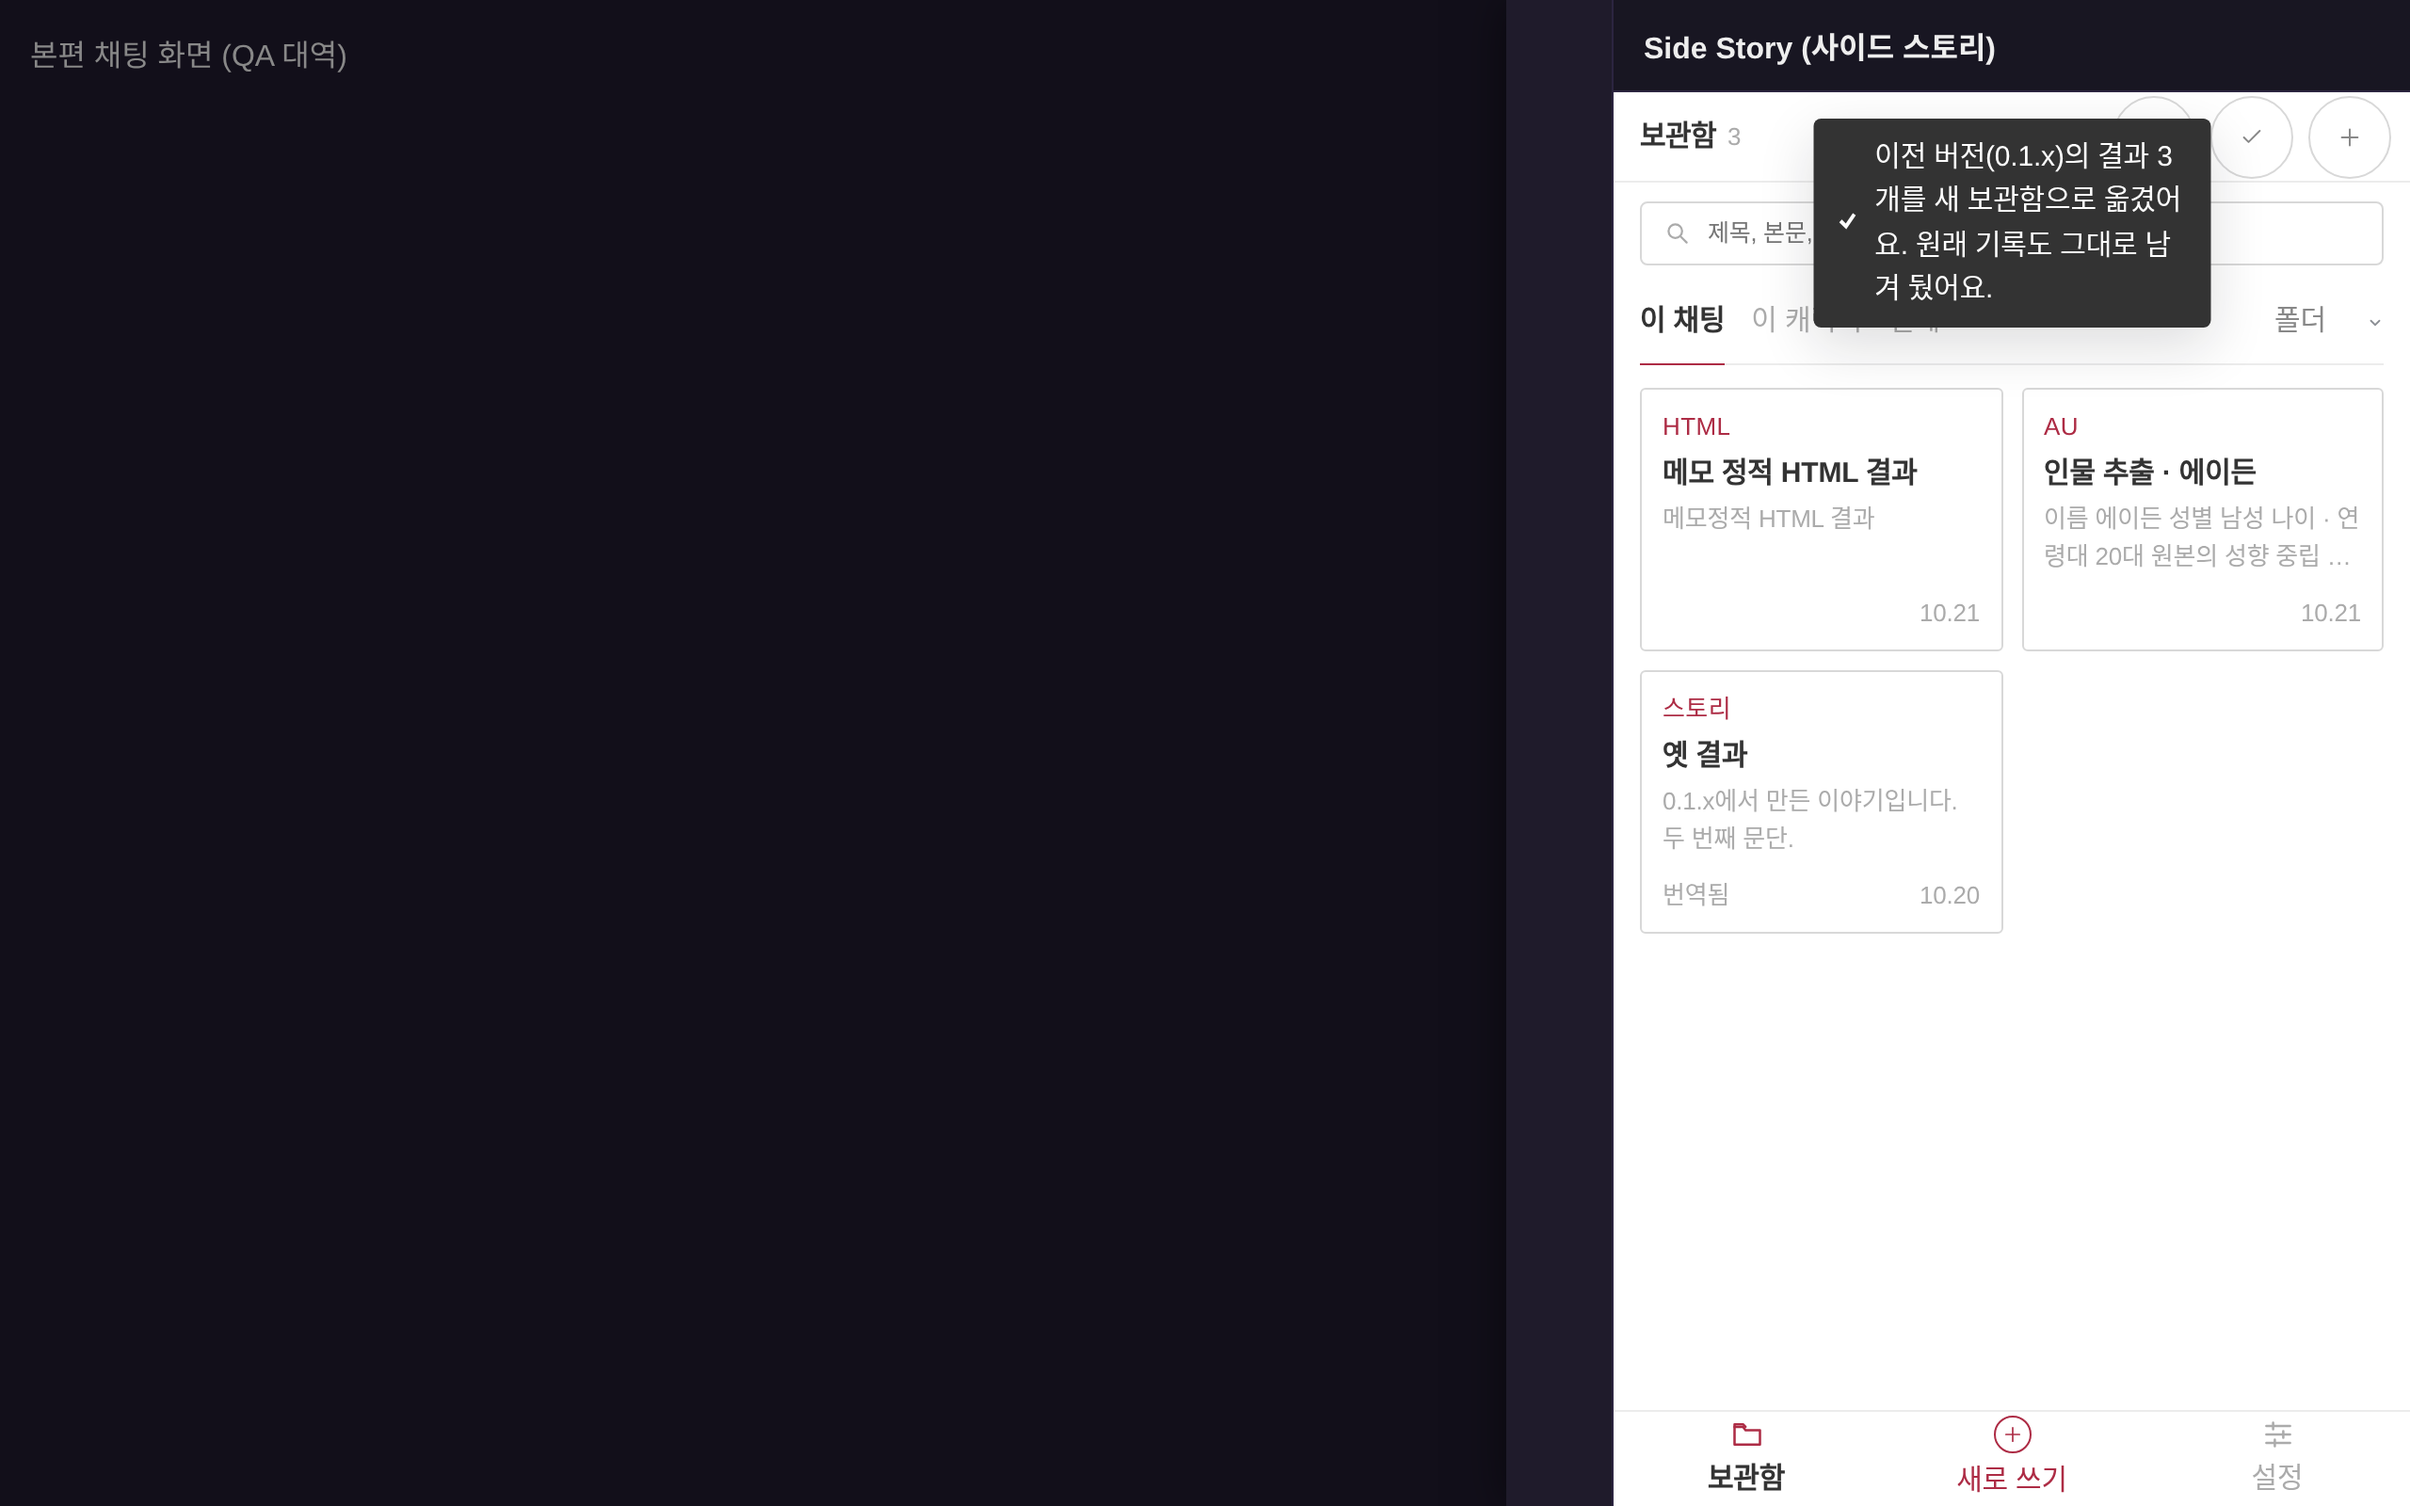
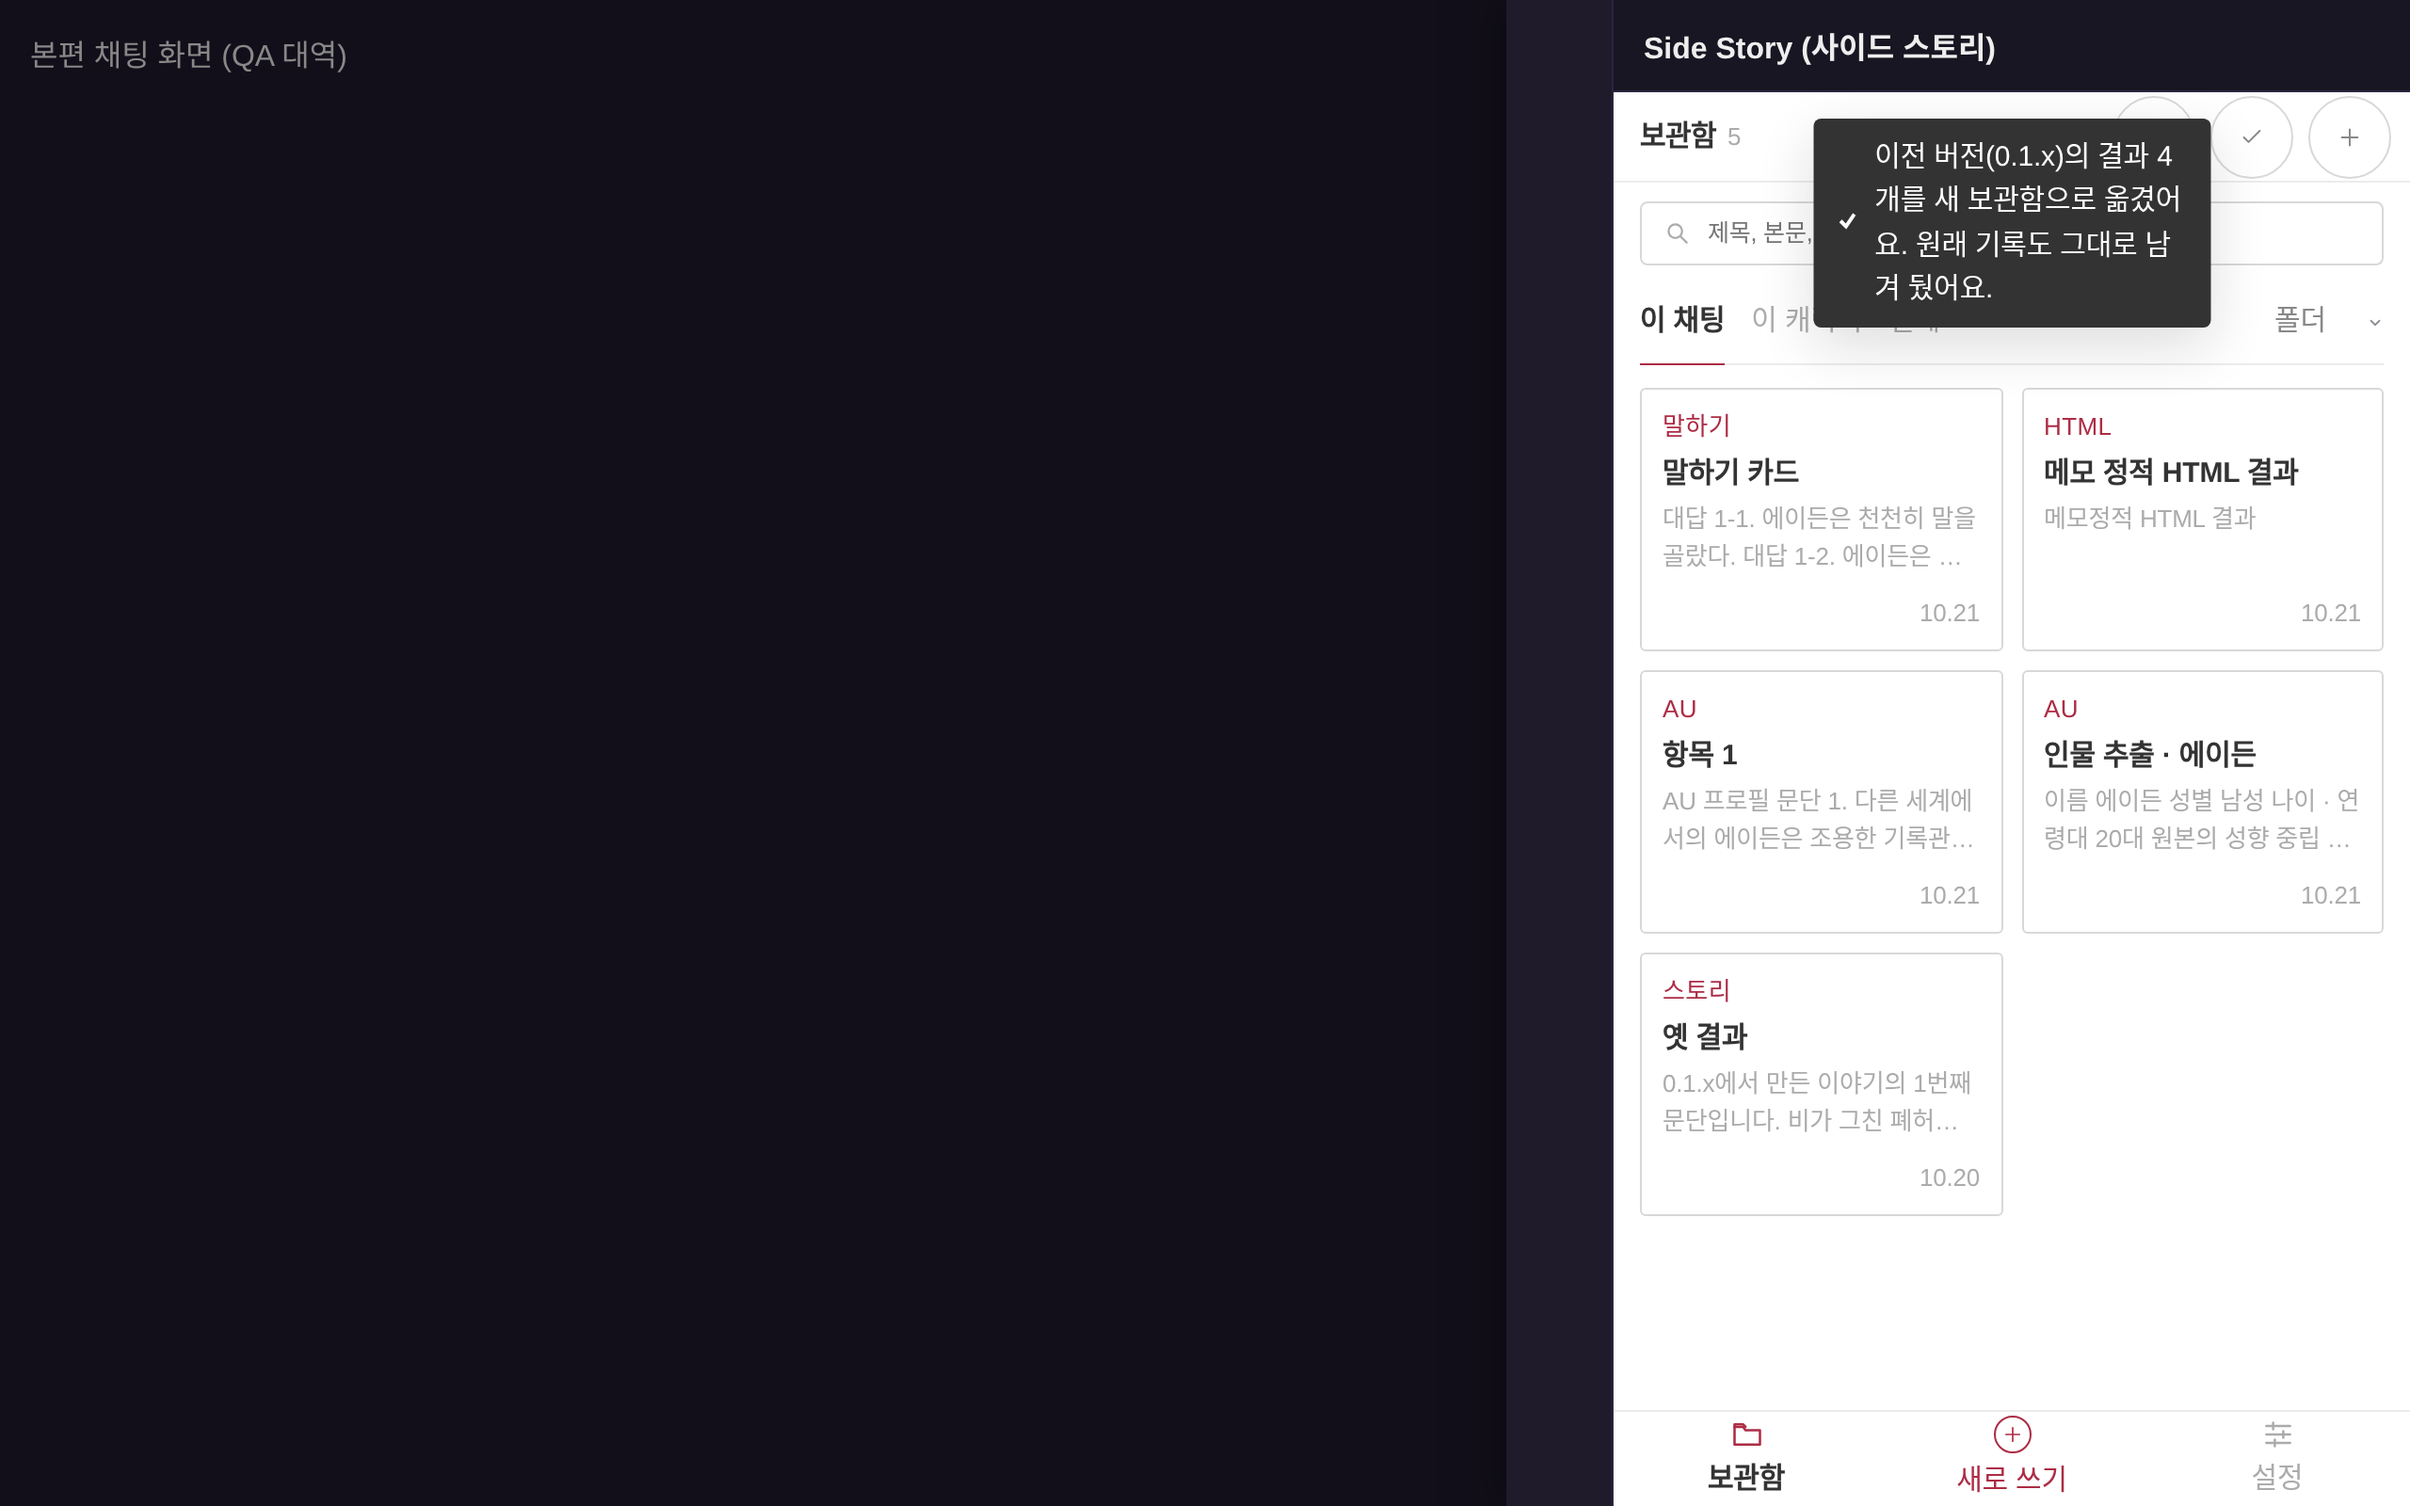
인물 추출 아티클이 휴대폰에서 스크롤되지 않던 문제 고치기
원작의 인물 추출 화면은 #reader 안에 overflow:auto와
overscroll-behavior:contain을 가진 상자 두 개를 겹쳐 두는데, 높이가
정해지지 않아 스스로는 스크롤할 것이 없으면서 터치와 휠을 받아 버리고
바깥 #reader로 넘기지 않았다. 두 상자를 일반 상자로 바꿔 #reader 하나만
스크롤하게 한다. Firefox·Chromium 휴대폰 화면에서 각 화면과 아티클이
휠·터치로 스크롤되는지 검사하는 qa:scroll을 추가하고, 브라우저 검증에
인물 추출 화면 터치 스크롤 단계를 넣었다.

diff --git a/qa/harness.js b/qa/harness.js
@@ -16,11 +16,13 @@ function translate(input){const src=input.messages.at(-1).content;const items=[]
 let frontend=null;
 // Results saved by Side Story 0.1.x (records/<id>.json), to watch the migration into the new archive.
 const old=[
- {id:'5d1c2a10-0000-4000-8000-000000000001',revision:1,schema:1,mode:'story',content:'# 옛 결과\n\n0.1.x에서 만든 이야기입니다.\n\n두 번째 문단.',host:{chatId:'chat-1',connectionId:'conn-1'},parentId:null,seriesId:null,createdAt:Date.now()-86400000,requestId:'r1',sourceVersion:'0.9.8',translation:{complete:true,segments:[{id:'s0',text:'# Old result'},{id:'s1',text:'A story made in 0.1.x.'},{id:'s2',text:'Second paragraph.'}]}},
+ {id:'5d1c2a10-0000-4000-8000-000000000001',revision:1,schema:1,mode:'story',content:'# 옛 결과\n\n'+Array.from({length:24},(_,i)=>`0.1.x에서 만든 이야기의 ${i+1}번째 문단입니다. 비가 그친 폐허에서 두 사람은 오래 이야기를 나눴다.`).join('\n\n'),host:{chatId:'chat-1',connectionId:'conn-1'},parentId:null,seriesId:null,createdAt:Date.now()-86400000,requestId:'r1',sourceVersion:'0.9.8',translation:null},
  {id:'5d1c2a10-0000-4000-8000-000000000002',revision:2,schema:1,mode:'identity',content:'{}',facetPlan:{schema:'sidestory-identity-v1',subjects:[{kind:'character',name:'에이든',gender:'남성',age:'20대',relative_age:'',alignment:'중립',background_context:'원본에 명시 없음',hair:'검은색',eyes:'회색',height:'큰 편',build:'마른 체형',design:'차분한 인상',temperament:['과묵함'],speech:'짧게 말함',interpersonal:['경계심'],sheet_layout:['이름','성격']}],relationship:'',counterpart:null},identityApproved:true,host:{chatId:'chat-1'},createdAt:Date.now()-7200000,requestId:'r2'},
+ {id:'5d1c2a10-0000-4000-8000-000000000004',revision:1,schema:1,mode:'au',content:Array.from({length:14},(_,i)=>`## 항목 ${i+1}\n\nAU 프로필 문단 ${i+1}. 다른 세계에서의 에이든은 조용한 기록관이다.`).join('\n\n'),host:{chatId:'chat-1'},createdAt:Date.now()-5400000,requestId:'r5'},
  {id:'5d1c2a10-0000-4000-8000-000000000003',revision:1,schema:1,mode:'html',content:'<h2>메모</h2><p>정적 HTML 결과</p>',host:{chatId:'chat-1'},createdAt:Date.now()-3600000,requestId:'r3'},
 ];
-const api=createFakeSpindle({storage:Object.fromEntries(old.map(r=>['records/'+r.id+'.json',JSON.stringify(r)])),onSend:p=>setTimeout(()=>frontend?.(p),5),rawText:input=>window.qaReply==='translate'?translate(input):replies[window.qaReply]||replies.story,rawDelay:120});
+const speak={id:'qa-speak',mode:'speak',title:'말하기 카드',request:'질문들',chatId:'chat-1',chatName:'첫 채팅',characterIds:['char-a'],characterNames:['에이든'],content:Array.from({length:3},(_,i)=>`<sideb-response><request>질문 ${i+1}</request><spoken>${Array.from({length:12},(_,j)=>`대답 ${i+1}-${j+1}. 에이든은 천천히 말을 골랐다.`).join('\n\n')}</spoken><inner>속마음 ${i+1}</inner></sideb-response>`).join('\n'),status:'complete',createdAt:Date.now()-1000,favorite:false,settings:{mode:'speak'},action:'new',parentId:null,seriesId:null,tags:[]};
+const api=createFakeSpindle({storage:{...Object.fromEntries(old.map(r=>['records/'+r.id+'.json',JSON.stringify(r)])),'archive/qa-speak.json':JSON.stringify(speak)},onSend:p=>setTimeout(()=>frontend?.(p),5),rawText:input=>window.qaReply==='translate'?translate(input):replies[window.qaReply]||replies.story,rawDelay:120});
 install(api);
 const state={'chat.active':{chatId:'chat-1',characterId:'char-a'},'persona.activeId':'persona-1','connections.active':{activeProfileId:'conn-1'},'ui.drawer':{open:true,tabId:'side_story:tab'}};
 const subs=new Map(),activators=new Set();

diff --git a/dist/frontend.js b/dist/frontend.js
@@ -1285,6 +1285,12 @@ button#new-result-chat{display:none!important}
 .dock:has(#lv-preview){display:flex;gap:8px}
 .dock #lv-preview{flex:none;padding-inline:16px}
 .dock #lv-preview+#generate{flex:1;width:auto}
+/* Scrolling. Upstream's identity/AU-plan reader nests two more overflow:auto boxes with
+   overscroll-behavior:contain inside #reader. They never get a bounded height, so they never scroll
+   themselves, but as scroll containers they still catch the wheel/touch gesture and, being "contain",
+   do not hand it on to #reader: the page looks stuck (seen on Firefox for Android; reproducible in
+   Chromium). Make #reader the only scroller there; the sticky action bar now sticks to #reader. */
+#reader .facet-plan-preview,#reader .facet-plan-preview .facet-plan-scroll{overflow:visible;overscroll-behavior:auto;height:auto;max-height:none}
 `;
   const SideReplace = (() => {
     function clean(rows) {

diff --git a/src/lumiverse/style.css b/src/lumiverse/style.css
@@ -24,3 +24,9 @@ button#new-result-chat{display:none!important}
 .dock:has(#lv-preview){display:flex;gap:8px}
 .dock #lv-preview{flex:none;padding-inline:16px}
 .dock #lv-preview+#generate{flex:1;width:auto}
+/* Scrolling. Upstream's identity/AU-plan reader nests two more overflow:auto boxes with
+   overscroll-behavior:contain inside #reader. They never get a bounded height, so they never scroll
+   themselves, but as scroll containers they still catch the wheel/touch gesture and, being "contain",
+   do not hand it on to #reader: the page looks stuck (seen on Firefox for Android; reproducible in
+   Chromium). Make #reader the only scroller there; the sticky action bar now sticks to #reader. */
+#reader .facet-plan-preview,#reader .facet-plan-preview .facet-plan-scroll{overflow:visible;overscroll-behavior:auto;height:auto;max-height:none}

diff --git a/QA.md b/QA.md
@@ -24,6 +24,9 @@
   - 기준 적용 전→후(360×460, 같은 화면들): 본문 최소 10–10.5px → 15px, 보조 최소 9px → 13px, 누름 영역 최소 18px → 44px. 기준 미달 개수 예: 새로 쓰기 글자 21·버튼 15 → 0·0, 로어북 글자 209·버튼 28 → 0·0, 결과 글자 8·버튼 9 → 0·0, 설정 글자 19·보조 14·버튼 8 → 0·0·0. 1280×800 데스크톱 서랍(약 423px 폭)도 같은 기준을 통과합니다.
   - 예외(검사에서 빼고 보고): 테마 색 동그라미 `.swatch`(24px, 44px 일곱 개가 360px 한 줄에 들어가지 않음, 줄 자체는 44px), 말하기 카드 위치 점 `.speak-news-dot`(같은 일을 하는 44px 이전·다음 버튼과 넘기기 동작이 있음), 화면 읽기 전용 텍스트와 잠깐 뜨는 알림.
 
+- `npm run qa:scroll` — 통과(40건). Playwright로 **Firefox**와 Chromium(터치 켬, Chromium은 모바일 에뮬레이션)에서 서랍 대역을 360×460·390×844로 열고, 보관함·새로 쓰기·참고 자료·설정과 인물 추출(보기·항목별 편집)·AU·스토리·HTML·말하기 아티클마다 손가락 아래의 스크롤 영역을 찾아 휠로 스크롤되는지, 터치 끌기로 스크롤되는지(Chromium은 CDP 실제 터치 이벤트, Firefox는 Playwright가 터치 끌기를 못 만들어 스크롤 위치 직접 변경), 그리고 손가락과 스크롤 영역 사이에 “스크롤할 것이 없는데 overscroll-behavior:contain인 영역”이 끼어 있지 않은지 검사합니다. 결과는 `qa/scroll-report.json`(git 제외). Playwright는 프로젝트 의존성이 아니라 `PLAYWRIGHT_MODULE`(playwright 모듈 경로), `FIREFOX_BIN`으로 지정합니다. `npm run qa:browser`에도 인물 추출 화면을 터치로 끌어 스크롤되는지 확인하는 단계가 있습니다.
+  - **고친 문제(실기기 Firefox for Android에서 보고):** 보관함에서 인물 추출(AU 1/2 단계) 아티클을 열면 내용이 전혀 스크롤되지 않았습니다. 원작은 이 화면에서 `#reader` 안에 `overflow:auto` + `overscroll-behavior:contain` 상자 두 개(`.facet-plan-preview`, 그 안의 `.facet-plan-scroll`)를 더 겹쳐 두는데, 높이가 정해지지 않아 스스로는 스크롤할 것이 없으면서도 스크롤 영역이라 터치·휠을 받아 버리고 `contain` 때문에 바깥 `#reader`로 넘기지 않습니다. 고치기 전 빌드로 같은 검사를 돌리면 Chromium은 휠·터치 모두 0px, Firefox도 막는 상자를 감지했고, 고친 뒤에는 모두 통과합니다. 수정은 `src/lumiverse/style.css`에서 두 상자를 일반 상자로 바꿔 `#reader` 하나만 스크롤하게 한 것입니다(원작 파일 수정 없음). 서랍 대역의 스크롤 구조(`panelContent`: overflow-y auto, `.panel`: overflow hidden, 탭 뿌리 높이 100%)는 루미버스 `ViewportDrawer.module.css`·`TabPanelContent.tsx`를 따라 만들었습니다.
+
 ## 차이 분석(2026-10-21) 대비 상태
 
 | 우선순위 | 항목 | 상태 |

diff --git a/README.md b/README.md
@@ -70,6 +70,7 @@ Lumiverse 확장 설치에서 GitHub 주소 `https://github.com/mallang0723/LV-S
 - 원작 소스는 `upstream/`에 고정 커밋 그대로 있습니다. `npm run build`가 원작의 `build.py`와 같은 순서로 묶어 `src/generated/side-story-app.js`를 만들고(Bun 번들 → `dist/`), 원작 파일에 대한 변경은 `src/lumiverse/patches.mjs`의 표로만 합니다(기준 문자열이 달라지면 빌드가 멈춥니다). 화면 폭 조건은 서랍 폭 기준(컨테이너 쿼리)으로 바꾸고, 휴대폰·좁은 서랍에서는 글자 15px(보조 13px)·누름 영역 44px 이상이 되도록 원작의 작은 크기를 덧씌웁니다(`src/lumiverse/css-floor.mjs`). Bun 경로는 `BUN_BIN`으로 지정합니다.
 - `npm test`: 가짜 Spindle API로 어댑터(드라이런 조립·페이지 읽기·채팅 전환·모델 전달·미리보기), 0.1.x 이전, 빌드 무결성을 검사합니다.
 - `npm run qa:browser`: headless Chromium에서 서랍 대역 페이지에 실행물을 띄워 360×460·390×844·1280×800 화면에서 넘침·글자 크기·누름 영역을 검사하고 `qa/screens/v020/`에 스크린샷을 남깁니다. 실제 모델 호출은 하지 않습니다.
+- `npm run qa:scroll`: Playwright로 Firefox·Chromium 휴대폰 화면에서 각 화면과 아티클이 휠·터치로 스크롤되는지 검사합니다(`PLAYWRIGHT_MODULE`, `FIREFOX_BIN`으로 지정).
 
 자세한 검증 범위는 [QA.md](QA.md), 변경 내역은 [CHANGELOG.md](CHANGELOG.md)를 보세요.
 

diff --git a/CHANGELOG.md b/CHANGELOG.md
@@ -12,6 +12,7 @@
 - 보관함과 설정을 서버의 확장 저장 공간에 원작 형식으로 둡니다. 0.1.x 결과는 처음 열 때 자동으로 옮깁니다(원래 파일 유지).
 - 작은 휴대폰(360×460)에서도 쓸 수 있도록 원작 화면을 서랍 폭 기준으로 배치하고, 낮은 화면에서는 하단 탭과 요청 칸을 줄였습니다.
 - 휴대폰·좁은 서랍에서 글자와 버튼을 키웠습니다: 본문·버튼 글자 15px 이상, 보조 글자 13px 이상, 누르는 곳 44px 이상(원작의 9–13.5px 글자와 18–30px 버튼이 그대로였던 것을 고침). 읽기 글자 크기 기본값은 16px입니다.
+- 보관함에서 인물 추출(AU 1/2) 아티클을 열면 휴대폰에서 내용이 스크롤되지 않던 문제를 고쳤습니다(원작의 겹친 스크롤 상자가 터치를 받아 버리던 문제).
 - 할 수 없는 것: 결과로 새 채팅 만들기(Spindle API 없음), RP 프리셋 바꿔 생성(실리태번 전용). 자세한 내용은 README의 “할 수 없는 것”.
 
 ## 0.1.6
